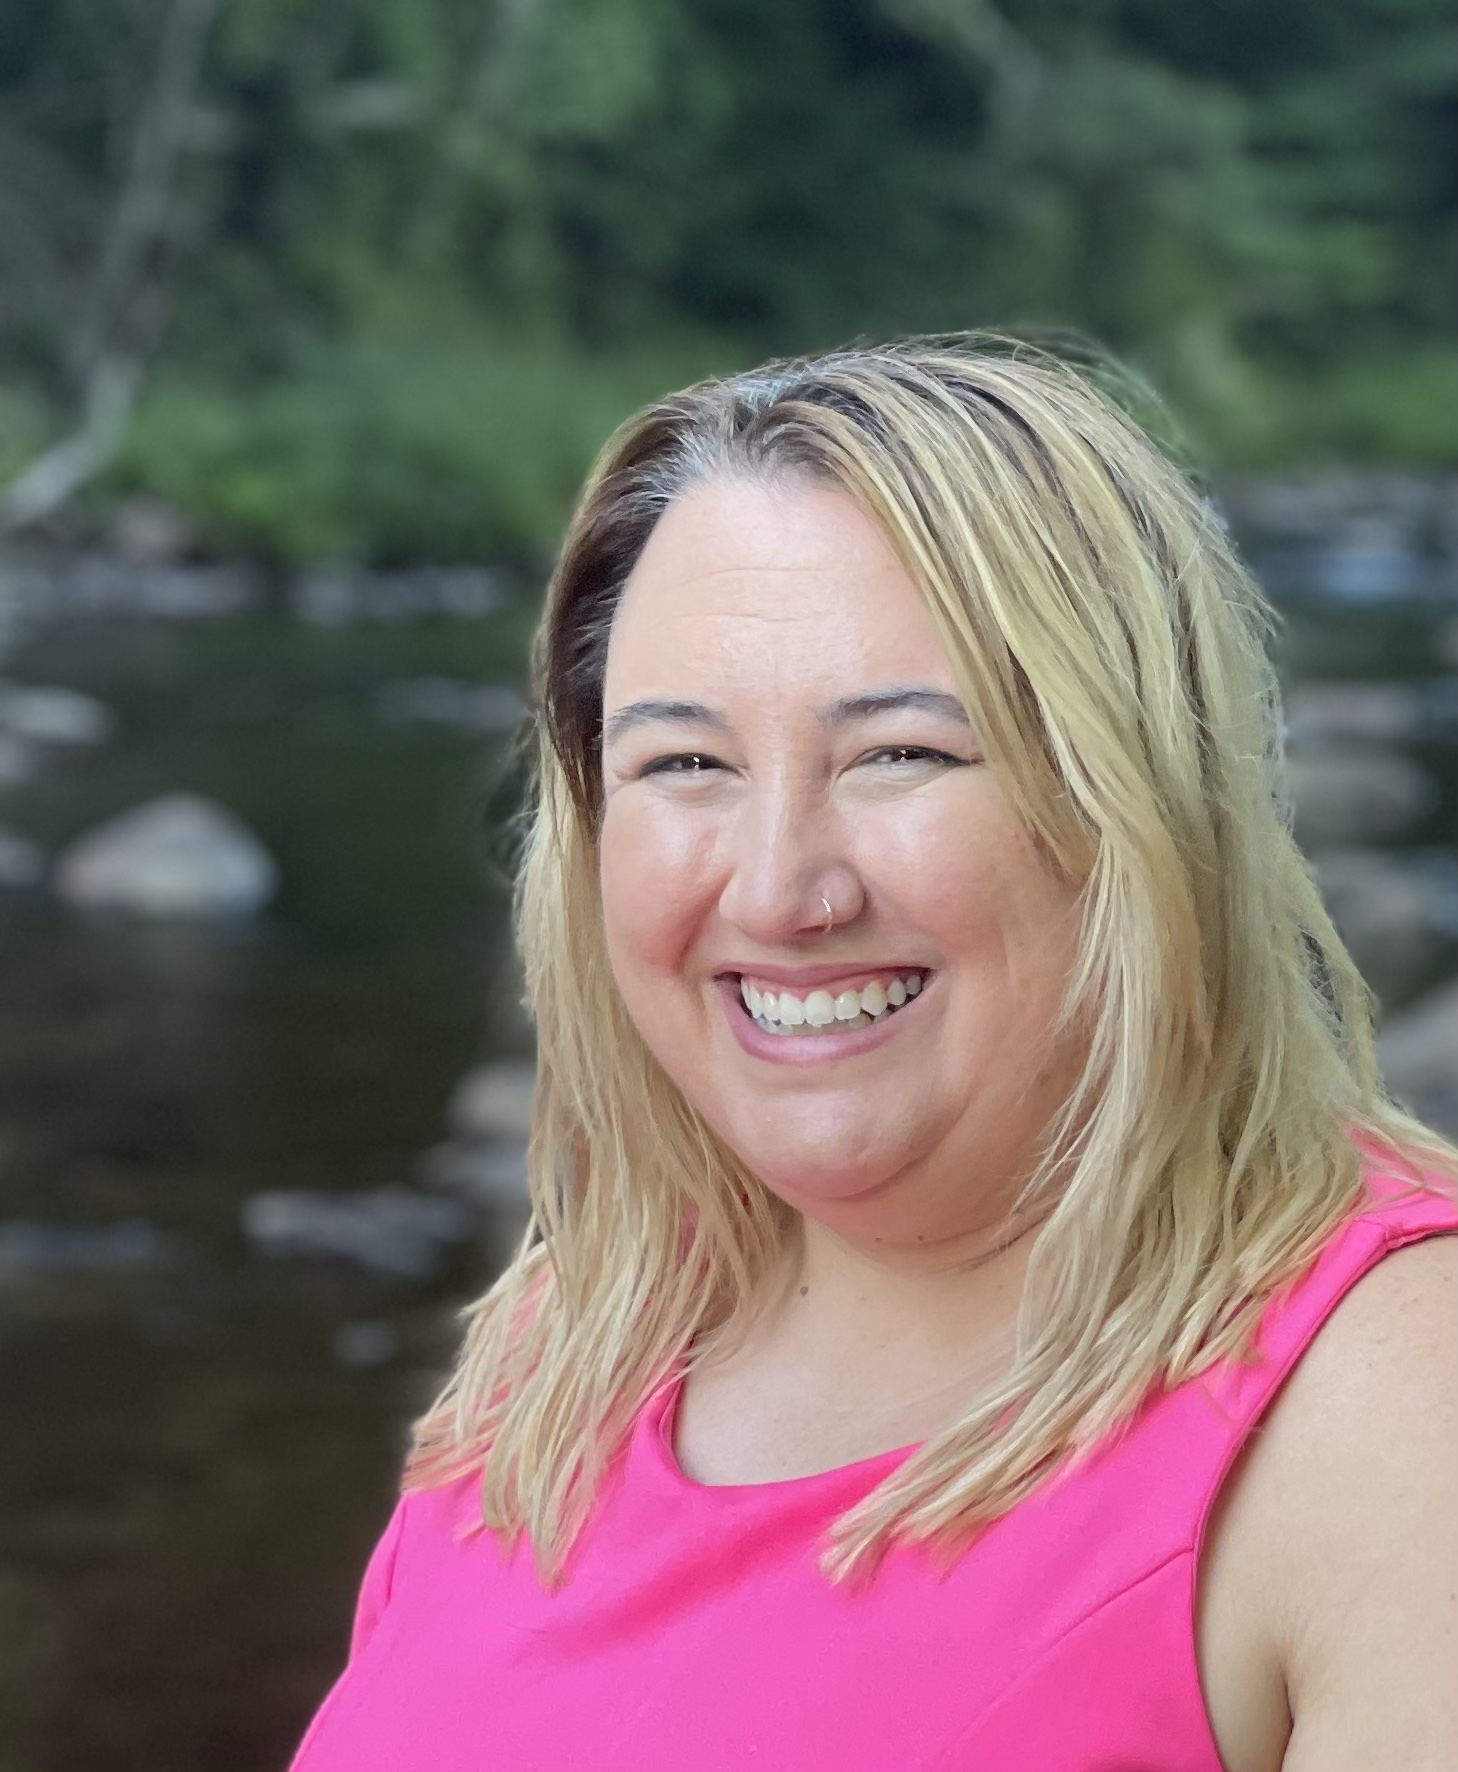
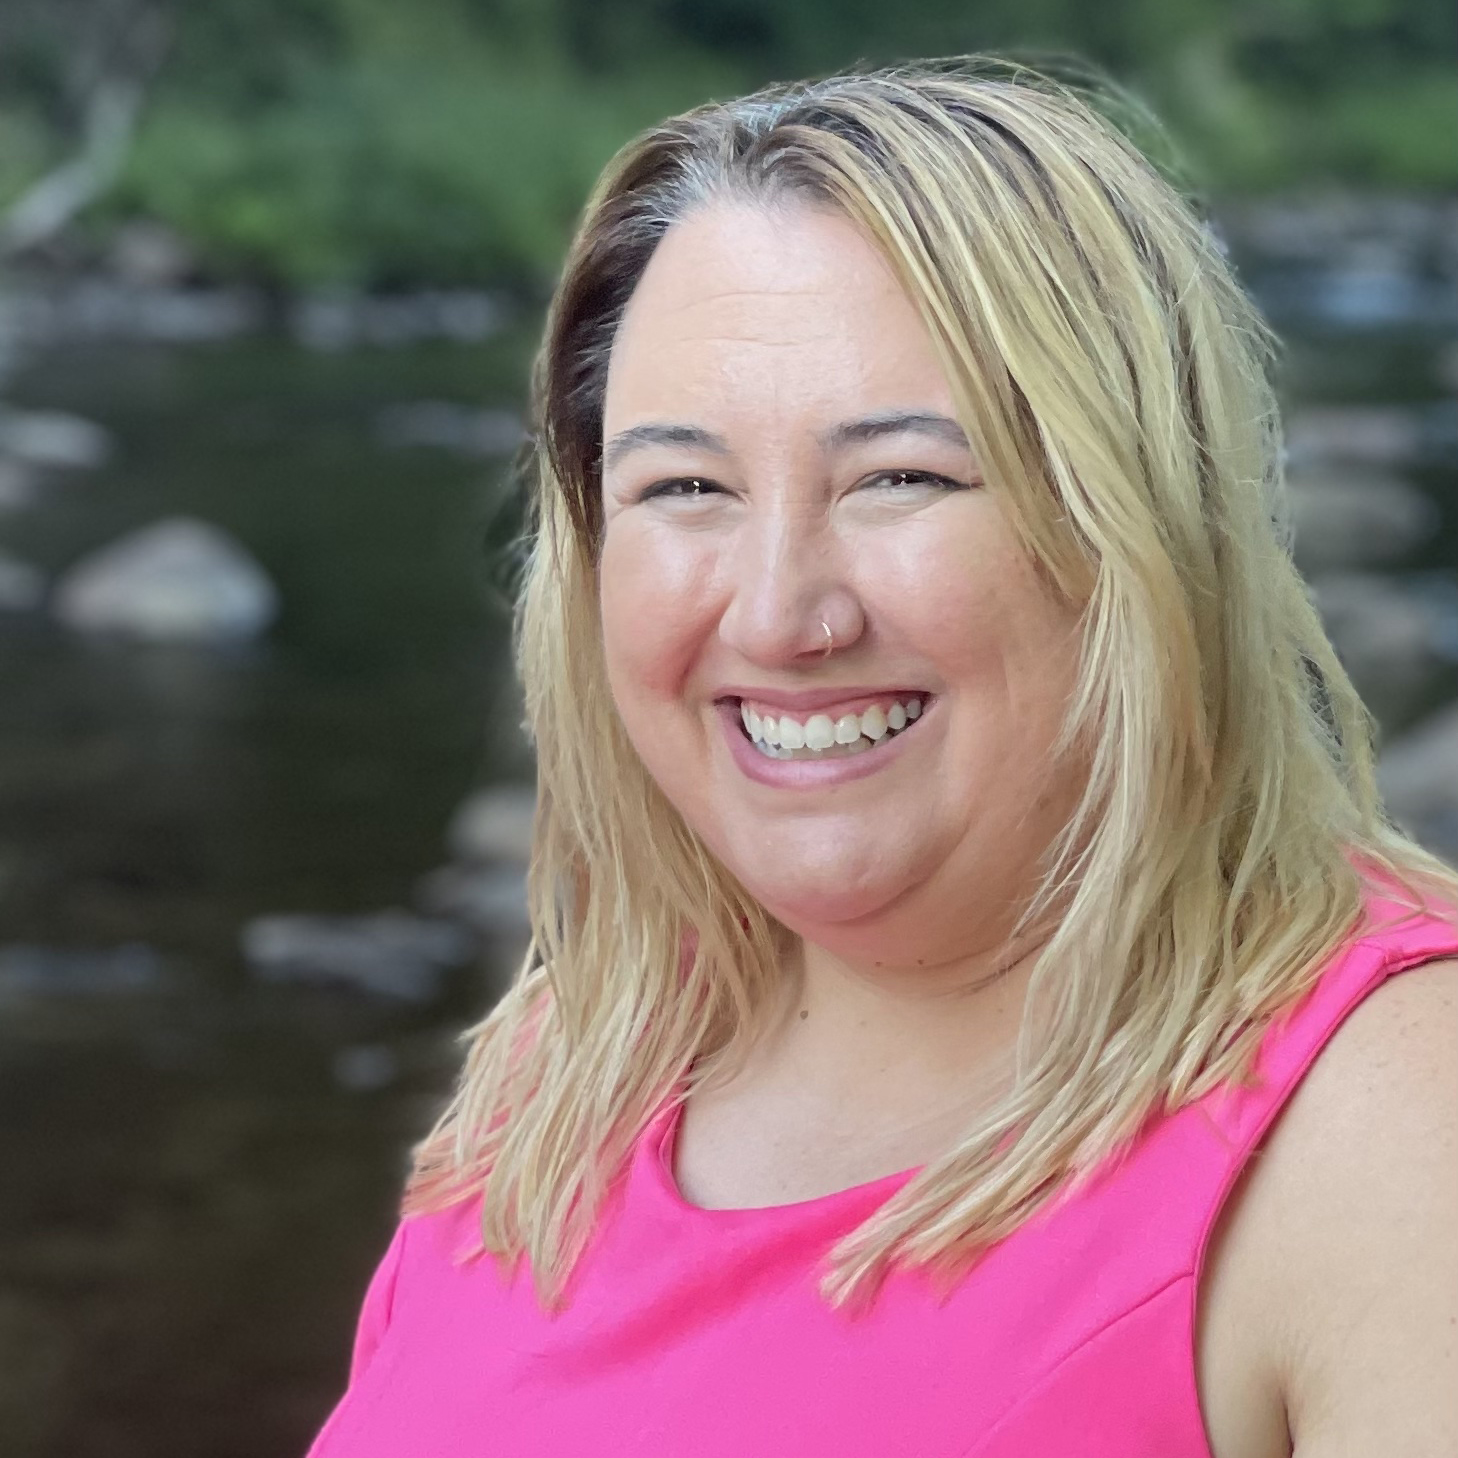
Cropping photos

diff --git a/_fellows/RuthTrumble.md b/_fellows/RuthTrumble.md
@@ -11,7 +11,7 @@ author: sabine
 date: 2024-04-16
 categories: [ Fellows ]
 tags: [ People ]
-image: assets/images/datartathon/RuthTrumble.jpg
+image: assets/images/datartathon/RuthTrumble.png
 ---
 
 Ruth Trumble will complete her Ph.D. in the Department of Geography at the University of Wisconsin-Madison in June 2023. A critical geographer, she explored the challenges to building and sustaining disaster preparedness systems in the former Yugoslavia. Her research is at the crossroads of climate justice, visual communication, and geographies of vulnerability.
